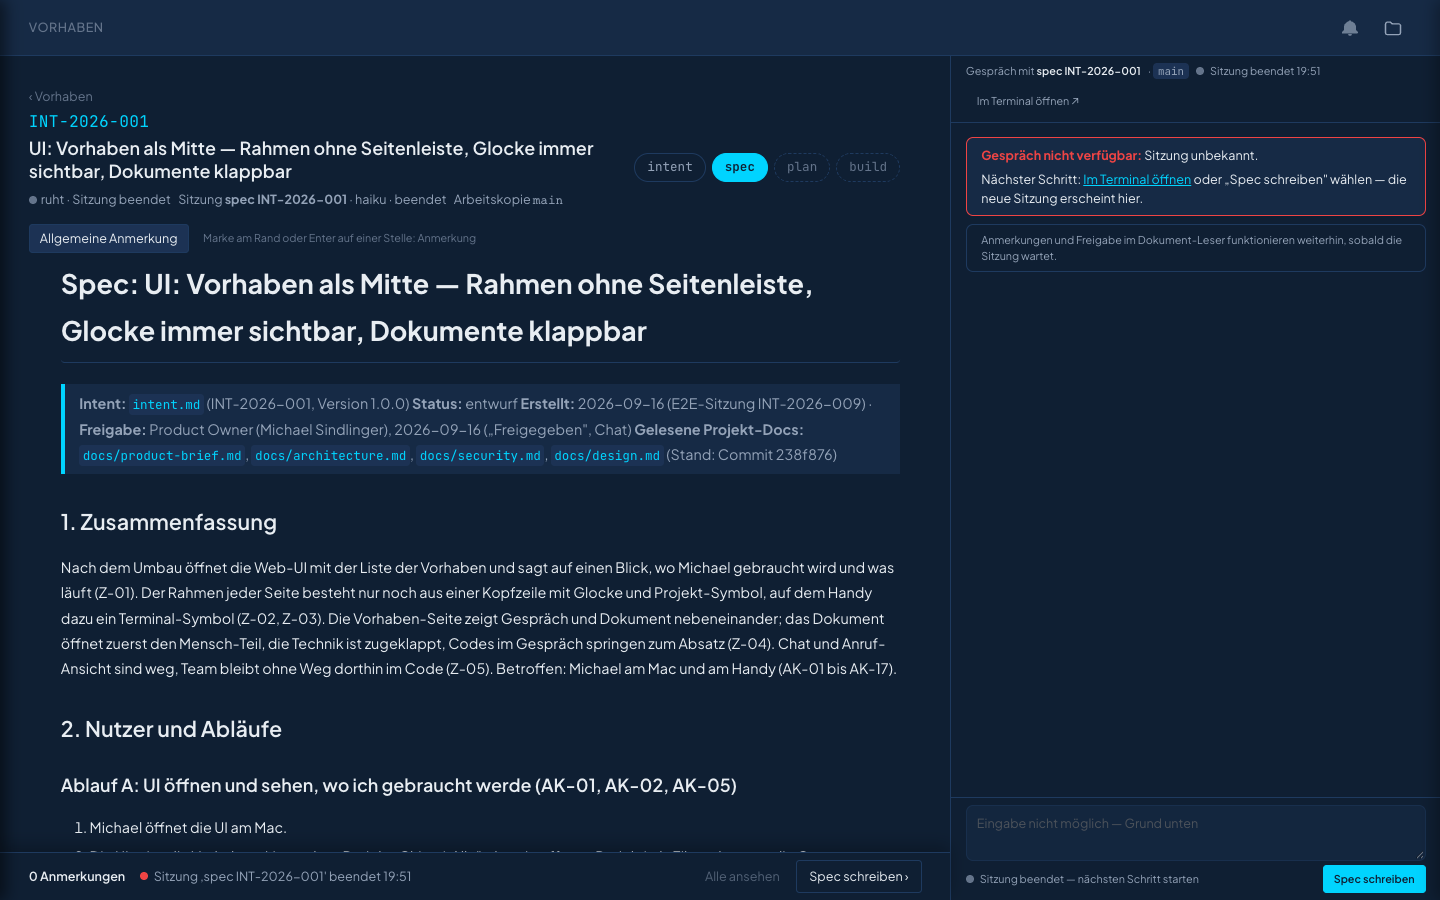
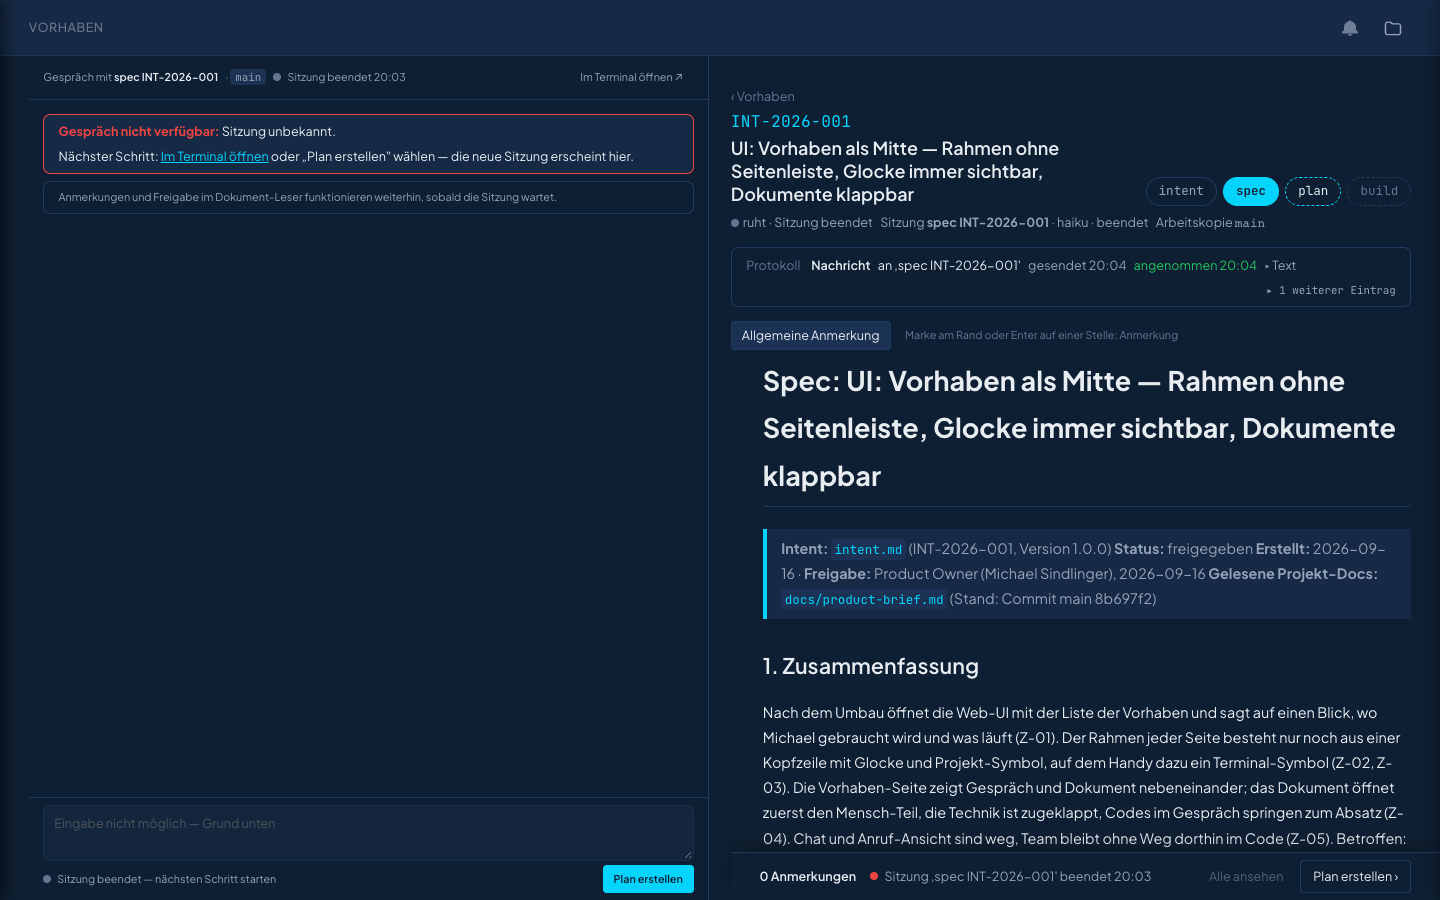
fix(INT-2026-010): Vorhaben-Seite 50/50 — Gespräch links, Dokument rechts (Skizze 3, FA-12)
Das Layout aus INT-2026-007 (Dokument 1fr, Gespräch rechts mit fester Breite
clamp(420px, 34vw, 540px)) war nie an Skizze 3 und FA-12 angepasst.

Grid 1fr 1fr, Gespräch-Spalte zuerst; GESPRAECH_BREITE = halbe Inhaltsbreite
(Viewport minus Terminal-Sidebar, Dateibaum, View-Padding, Spaltenabstand);
Gespräch fixiert am linken View-Rand; Sende-Leiste beginnt an der
Dokumentspalte (--gespraech-versatz aus aos-vorhaben-seite) und endet am
Terminal. Route neu gleich (Gespräch links der Karte). Unter 1024 px Dokument
über Gespräch per Flex-Spalte mit order; dabei zwei Altfehler behoben
(aos-gespraech inline → display block, align-items: start verhinderte das
Strecken), Sende-Leiste dort wieder volle Breite.

Nachweis: Geometrie bei 1440, 1440 + Terminal, 900 px (e2e-protokoll.txt,
ist-04-vorhaben-mac.png neu, -terminal-mac.png, -900.png); Tests view-split
und neue-absicht angepasst; plan §14.

diff --git a/ui/frontend/src/styles/theme.css b/ui/frontend/src/styles/theme.css
@@ -5801,26 +5801,36 @@ aos-model-selector .model-option.selected .model-name {
   /* R-10: the split needs the full width, not the 1180 px reader column */
   max-width: none;
 }
+/* INT-2026-010 (FA-12, Skizze 3): Gespräch links, Dokument rechts, 50/50.
+   `--gespraech-width` = half of the view's content width (viewport minus
+   terminal sidebar, file tree and the view padding, minus the gap); set by
+   aos-vorhaben-view as GESPRAECH_BREITE. */
 .vorhaben-split {
   display: grid;
-  grid-template-columns: minmax(0, 1fr) var(--gespraech-width, 500px);
+  grid-template-columns: minmax(0, 1fr) minmax(0, 1fr);
   gap: var(--spacing-lg);
   align-items: start;
 }
-/* The column only reserves the width; the Gespräch itself is fixed to the
-   viewport (main-content has overflow-x:hidden → sticky never engages),
-   right of the terminal sidebar, above the send bar's row. */
+/* The first column only reserves the width; the Gespräch itself is fixed to
+   the viewport (main-content has overflow-x:hidden → sticky never engages),
+   flush with the view's left padding, above the send bar's row. */
 .vorhaben-split-gespraech {
+  grid-column: 1;
+  min-width: 0;
+}
+.vorhaben-split > aos-vorhaben-seite,
+.vorhaben-split > .neue-absicht {
+  grid-column: 2;
   min-width: 0;
 }
 .vorhaben-split aos-gespraech {
   position: fixed;
   top: var(--header-height, 56px);
   bottom: 0;
-  right: var(--terminal-open-width, 0px);
+  left: calc(var(--file-tree-open-width, 0px) + var(--spacing-xl));
   width: var(--gespraech-width, 500px);
   z-index: 40;
-  transition: right 0.3s ease;
+  transition: left 0.3s ease, width 0.3s ease;
 }
 .gespraech {
   height: 100%;
@@ -5828,7 +5838,7 @@ aos-model-selector .model-option.selected .model-name {
   flex-direction: column;
   min-height: 0;
   background: var(--color-bg-primary);
-  border-left: 1px solid var(--color-border);
+  border-right: 1px solid var(--color-border);
   font-family: var(--font-family);
   font-size: var(--font-size-sm);
   color: var(--color-text-primary);
@@ -6669,19 +6679,36 @@ aos-projekt-seite .abschnitt-git aos-git-status-bar {
   margin-bottom: var(--spacing-lg);
 }
 
-/* Vorhaben page below 1024 px: document above the Gespräch (FA-20, design.md §5) */
+/* Vorhaben page below 1024 px: document above the Gespräch (FA-20, design.md §5).
+   The Gespräch comes first in the DOM (left column on the Mac) → `order` puts it below. */
 @media (max-width: 1023px) {
   aos-app .vorhaben-split {
-    display: block;
+    display: flex;
+    flex-direction: column;
+    align-items: stretch;
   }
 
   aos-app .vorhaben-split-gespraech {
+    order: 2;
     margin-top: var(--spacing-lg);
+  }
+
+  aos-app .vorhaben-split > aos-vorhaben-seite,
+  aos-app .vorhaben-split > .neue-absicht {
+    width: 100%;
+    max-width: 100%;
+    min-width: 0;
   }
 
   aos-app .vorhaben-split aos-gespraech {
     position: static;
+    display: block;
     width: auto;
     height: 70vh;
+  }
+
+  aos-app .vorhaben-split .gespraech {
+    border-right: none;
+    border-top: 1px solid var(--color-border);
   }
 }

diff --git a/ui/tests/unit/aos-vorhaben-view-split.test.ts b/ui/tests/unit/aos-vorhaben-view-split.test.ts
@@ -121,7 +121,7 @@ describe('aos-vorhaben-view — split with Gespräch (FA-01, NZ-01)', () => {
     route = { view: 'vorhaben', segments: ['p', 'INT-2026-003'] };
   });
 
-  it('Mac + assigned session: page left, Gespräch right with the same row; the page gets the Gespräch width for its send bar', async () => {
+  it('Mac + assigned session: Gespräch left, page right (FA-12, Skizze 3) with the same row; the page gets the Gespräch width (half the content width) for its send bar', async () => {
     const el = await view();
     stateListener!(state([row()]));
     await settle(el);
@@ -134,8 +134,13 @@ describe('aos-vorhaben-view — split with Gespräch (FA-01, NZ-01)', () => {
     expect(seite).not.toBeNull();
     expect(gespraech).not.toBeNull();
     expect(gespraech.row.intentId).toBe('INT-2026-003');
-    expect(seite.gespraechBreite).toContain('clamp(');
-    expect(seite.style.getPropertyValue('--gespraech-width')).toContain('clamp(');
+    // INT-2026-010: the Gespräch column comes first in the DOM (left on the Mac; CSS order puts it below the document under 1024 px)
+    expect([...split.children].map((c) => c.tagName.toLowerCase())).toEqual(['div', 'aos-vorhaben-seite']);
+    expect(split.children[0].classList.contains('vorhaben-split-gespraech')).toBe(true);
+    // 50/50: half of the content width (viewport minus terminal, file tree, view padding and gap), not a fixed clamp
+    expect(seite.gespraechBreite).toMatch(/^calc\(\(100vw - var\(--terminal-open-width, 0px\) - var\(--file-tree-open-width, 0px\) - .*\) \/ 2\)$/);
+    expect(seite.style.getPropertyValue('--gespraech-width')).toBe(seite.gespraechBreite);
+    expect(seite.style.getPropertyValue('--gespraech-versatz')).toContain('var(--spacing-xl)');
     el.remove();
   });
 
@@ -146,6 +151,7 @@ describe('aos-vorhaben-view — split with Gespräch (FA-01, NZ-01)', () => {
     expect(el.querySelector('.vorhaben-view')!.classList.contains('split')).toBe(false);
     expect(el.querySelector('aos-gespraech')).toBeNull();
     expect(el.querySelector('aos-vorhaben-seite')!.gespraechBreite).toBe('');
+    expect(el.querySelector('aos-vorhaben-seite')!.style.getPropertyValue('--gespraech-versatz')).toBe('0px');
     el.remove();
     mobile = true;
     const m = await view();
@@ -287,7 +293,9 @@ describe('aos-vorhaben-view — started step stays on the page (FA-22, AN-S03)',
     await card.updateComplete;
     (card.shadowRoot!.querySelector('button.terminal') as HTMLButtonElement).click();
     expect(seen).toEqual(['cloud-1-7']);
-    expect(card.shadowRoot!.textContent).toContain('Gespräch rechts');
+    expect(card.shadowRoot!.textContent).toContain('Gespräch links');
+    // the Gespräch column precedes the card on the route neu as well
+    expect([...el.querySelector('.vorhaben-split')!.children].map((c) => c.className)).toEqual(['vorhaben-split-gespraech', 'neue-absicht']);
     el.remove();
     mobile = true;
     const m = await view('neu');

diff --git a/ui/frontend/src/components/vorhaben/aos-sende-leiste.ts b/ui/frontend/src/components/vorhaben/aos-sende-leiste.ts
@@ -56,15 +56,16 @@ export class AosSendeLeiste extends LitElement {
 
   static override styles = css`
     /* Mac: fixed above the page (main-content has overflow-x:hidden, so sticky
-       would never engage); full width since the app sidebar is gone
-       (INT-2026-010), right of the terminal. */
+       would never engage), left of the terminal. With a Gespräch (INT-2026-010,
+       FA-12: Gespräch left, document right) the bar starts where the document
+       column starts: --gespraech-versatz is the column's left edge, set by
+       aos-vorhaben-seite; without a Gespräch both are 0 → full width. */
     :host {
       display: block;
       position: fixed;
       bottom: 0;
-      left: 0;
-      /* INT-2026-007: ends at the Gespräch column (FA-01, plan §4 #16) */
-      right: calc(var(--terminal-open-width, 0px) + var(--gespraech-width, 0px));
+      left: calc(var(--gespraech-versatz, 0px) + var(--gespraech-width, 0px));
+      right: var(--terminal-open-width, 0px);
       z-index: 50;
       background: var(--color-bg-primary);
       border-top: 1px solid var(--color-border);
@@ -72,7 +73,13 @@ export class AosSendeLeiste extends LitElement {
       font-family: var(--font-family);
       font-size: var(--font-size-sm);
       box-shadow: 0 -6px 16px rgba(0, 0, 0, 0.25);
-      transition: right 0.3s ease;
+      transition: right 0.3s ease, left 0.3s ease;
+    }
+    /* Below 1024 px the Gespräch sits under the document (design.md §5) → the bar spans the full width again. */
+    @media (max-width: 1023px) {
+      :host {
+        left: 0;
+      }
     }
     /* Phone: sticky at the bottom of the page. */
     :host([mobile]) {

diff --git a/ui/frontend/src/components/vorhaben/aos-vorhaben-seite.ts b/ui/frontend/src/components/vorhaben/aos-vorhaben-seite.ts
@@ -113,9 +113,10 @@ export class AosVorhabenSeite extends LitElement {
   /** `lastModelKey(...)` → selection (from the state). */
   @property({ attribute: false }) lastModel: Record<string, ModelSelection> = {};
   /**
-   * CSS width of the Gespräch column next to the page (INT-2026-007, Mac
-   * only); sets `--gespraech-width`, which the fixed send bar subtracts from
-   * its right edge. Empty = no Gespräch.
+   * CSS width of the Gespräch column left of the page (INT-2026-007, Mac
+   * only; INT-2026-010: left, 50/50); sets `--gespraech-width` and
+   * `--gespraech-versatz`, from which the fixed send bar takes its left edge.
+   * Empty = no Gespräch.
    */
   @property({ type: String }) gespraechBreite = '';
 
@@ -390,7 +391,11 @@ export class AosVorhabenSeite extends LitElement {
   `;
 
   protected override willUpdate(changed: PropertyValues<this>): void {
-    if (changed.has('gespraechBreite')) this.style.setProperty('--gespraech-width', this.gespraechBreite || '0px');
+    if (changed.has('gespraechBreite')) {
+      this.style.setProperty('--gespraech-width', this.gespraechBreite || '0px');
+      // Left edge of the document column (Gespräch left, FA-12): file tree + view padding + grid gap; 0 without a Gespräch.
+      this.style.setProperty('--gespraech-versatz', this.gespraechBreite ? 'calc(var(--file-tree-open-width, 0px) + var(--spacing-xl) + var(--spacing-lg))' : '0px');
+    }
     if (changed.has('mobile')) this.toggleAttribute('mobile', this.mobile);
     if (changed.has('doc') || (changed.has('row') && (changed.get('row') as VorhabenRow | undefined)?.intentId !== this.row?.intentId)) {
       this.readStand = 0;

diff --git a/ui/frontend/src/components/vorhaben/aos-neue-absicht.ts b/ui/frontend/src/components/vorhaben/aos-neue-absicht.ts
@@ -6,7 +6,7 @@
  * `firstInput`; the backend hands it to the session at its first Stop, so it
  * appears as Michael's first Beitrag in the Gespräch. While a `/intent`
  * session of the project is still pending (no folder yet), the page shows
- * that session instead of the form: on the Mac the Gespräch stands next to
+ * that session instead of the form: on the Mac the Gespräch stands left of
  * this card (the view renders it), on the phone the card offers the terminal
  * (AK-06). The view follows the session to its Vorhaben page once a folder
  * claims it (`followStartedIntent`).
@@ -229,7 +229,7 @@ export class AosNeueAbsicht extends LitElement {
   private renderPending(p: VorhabenPendingIntent) {
     return html`<div class="karte gestartet">
       <span><span class="dot"></span>Absicht-Sitzung „${p.session.name}" läuft — Vorhaben entsteht …</span>
-      <span class="status">${this.mobile ? 'im Terminal antworten' : 'Gespräch rechts'} — die Vorhaben-Seite öffnet sich, sobald der Ordner da ist</span>
+      <span class="status">${this.mobile ? 'im Terminal antworten' : 'Gespräch links'} — die Vorhaben-Seite öffnet sich, sobald der Ordner da ist</span>
       ${p.session.firstInputPending ? html`<span class="uebergabe">Dein Text wird nach der ersten Frage übergeben.</span>` : nothing}
       <button type="button" class="terminal" @click=${this.toTerminal}>Im Terminal öffnen ↗</button>
     </div>`;

diff --git a/ui/frontend/src/views/aos-vorhaben-view.ts b/ui/frontend/src/views/aos-vorhaben-view.ts
@@ -320,11 +320,12 @@ export class AosVorhabenView extends LitElement {
         @vorhaben-session-started=${this.onSessionStarted}
       ></aos-vorhaben-seite>`;
       if (!split) return seite;
+      // Gespräch left, document right (FA-12, Skizze 3); below 1024 px the CSS puts the Gespräch under the document.
       return html`<div class="vorhaben-split" style="--gespraech-width: ${GESPRAECH_BREITE}">
-        ${seite}
         <div class="vorhaben-split-gespraech">
           <aos-gespraech .row=${row} .protocol=${protocol.filter((e) => e.projectId === row.projectId && e.intentId === row.intentId)} @gespraech-next-step=${this.onGespraechNextStep}></aos-gespraech>
         </div>
+        ${seite}
       </div>`;
     }
     if (missing) {
@@ -392,10 +393,10 @@ export class AosVorhabenView extends LitElement {
     const sessionId = pending?.sessionId ?? claimedRow?.session?.id;
     const protocol = (this.vorhabenState?.protocol ?? []).filter((e) => e.sessionId === sessionId);
     return html`<div class="vorhaben-split" style="--gespraech-width: ${GESPRAECH_BREITE}">
-      ${block}
       <div class="vorhaben-split-gespraech">
         <aos-gespraech .row=${claimedRow} .pending=${pending} .protocol=${protocol}></aos-gespraech>
       </div>
+      ${block}
     </div>`;
   }
 }

diff --git a/ui/tests/unit/aos-neue-absicht.test.ts b/ui/tests/unit/aos-neue-absicht.test.ts
@@ -121,7 +121,7 @@ describe('aos-neue-absicht (FA-10, FA-11)', () => {
     el.remove();
   });
 
-  it('pending session: the card replaces the form — Mac „Gespräch rechts", phone „im Terminal antworten" with a terminal button; the pending first input is named until delivered (AK-06, plan §3)', async () => {
+  it('pending session: the card replaces the form — Mac „Gespräch links", phone „im Terminal antworten" with a terminal button; the pending first input is named until delivered (AK-06, plan §3)', async () => {
     const seen: string[] = [];
     const onOpen = (e: Event): void => {
       seen.push((e as CustomEvent<{ sessionId: string }>).detail.sessionId);
@@ -131,7 +131,7 @@ describe('aos-neue-absicht (FA-10, FA-11)', () => {
     const sr = el.shadowRoot!;
     expect(sr.querySelector('textarea')).toBeNull();
     expect(sr.textContent).toContain('Absicht-Sitzung „intent" läuft — Vorhaben entsteht');
-    expect(sr.textContent).toContain('Gespräch rechts');
+    expect(sr.textContent).toContain('Gespräch links');
     expect(sr.textContent).toContain('Dein Text wird nach der ersten Frage übergeben.');
     (sr.querySelector('button.terminal') as HTMLButtonElement).click();
     expect(seen).toEqual(['cloud-1-7']);

diff --git a/ui/frontend/src/components/vorhaben/aos-gespraech.ts b/ui/frontend/src/components/vorhaben/aos-gespraech.ts
@@ -23,7 +23,14 @@ import './aos-gespraech-beitrag.js';
 import './aos-gespraech-eingabe.js';
 
 /** Width of the Gespräch column on the Mac (plan §3 A.9: 420–540 px). */
-export const GESPRAECH_BREITE = 'clamp(420px, 34vw, 540px)';
+/**
+ * Width of the Gespräch column on the Mac (INT-2026-010, FA-12, Skizze 3):
+ * half of the view's content width — viewport minus terminal sidebar and file
+ * tree (both set on <html>), minus the view padding on both sides, minus the
+ * grid gap. The view sets it as `--gespraech-width`; the page's fixed send
+ * bar and the fixed Gespräch read it.
+ */
+export const GESPRAECH_BREITE = 'calc((100vw - var(--terminal-open-width, 0px) - var(--file-tree-open-width, 0px) - 2 * var(--spacing-xl) - var(--spacing-lg)) / 2)';
 
 /**
  * What the Gespräch needs from its owner — a Vorhaben row or (INT-2026-008)

diff --git a/intent/INT-2026-010-ui-vorhaben-als-mitte/plan.md b/intent/INT-2026-010-ui-vorhaben-als-mitte/plan.md
@@ -545,3 +545,4 @@ Meilensteine = die drei PRs (§6). Größter Unsicherheitsfaktor: E2E-Läufe mit
 | 2026-09-16 (S2) | E2E „Neue Absicht": Haiku legte `intent.md` ohne YAML-Kopf an (Phase `unbekannt`); der Kopf wurde im Scratch von Hand ergänzt, danach die Vorhaben-Seite des neuen Ordners geprüft (Chips, „Freigeben" frei, kein nächster Schritt in absicht) | Scratch-`CLAUDE.md` („kurz halten") ließ Haiku die Vorlage überspringen — Agentenverhalten im Testprojekt, kein UI-Befund; der Ordner-Claim und die Zustellung der ersten Eingabe liefen unabhängig davon | §8 E2E |
 | 2026-09-16 (S2) | Aktionsleiste (nächster Schritt, „Freigeben", Handy: Terminal) steht am Ende des Dokuments (Scrollen nötig), nicht fest am unteren Rand | Der feste untere Rand gehört der Sende-Leiste für Anmerkungen (Stufe 1); zwei feste Leisten übereinander würden den Leser verdecken. Skizze 3 zeigt den Knopf „unter dem Dokument" | §3 Vorhaben-Seite, §8 UI |
 | 2026-09-16 (S2) | E2E-Zeitfenster: Haikus erster Turn bei `/specwright:spec` dauerte 109 s bzw. 178 s bis zum ersten Stop (Spec in einem Zug geschrieben, Status selbst gesetzt); die Zustellung der Freigabe erfolgte jeweils beim ersten Stop, in Lauf 2 außerhalb des 120-s-Fensters des Skripts (per WS-Snapshot bestätigt) | Das Skript misst ab Start; die Wartezeit hängt vom Agenten ab, nicht von der UI | §8 E2E |
+| 2026-09-16 (Fix nach S2) | Split der Vorhaben-Seite: Gespräch **links**, Dokument **rechts**, je halbe Inhaltsbreite (`grid 1fr 1fr`, `GESPRAECH_BREITE` = `calc((100vw − Terminal − Dateibaum − 2·Padding − Gap) / 2)`, Gespräch fixiert am linken View-Rand, Sende-Leiste ab der Dokumentspalte); unter 1024 px Dokument über Gespräch per Flex-Spalte mit `order`. Route `neu` gleich (Gespräch links der Karte). Eigener PR `fix/INT-2026-010-split` | Befund von Michael nach dem Merge von PR #58: Layout aus INT-2026-007 (Dokument `1fr`, Gespräch rechts fest `clamp(420px, 34vw, 540px)`) war nie an Skizze 3 / FA-12 („links das Gespräch, rechts das Dokument") angepasst; Plan §3 hatte Seite und Breite nicht genannt, das S1-Protokoll die falsche Zuordnung als Mock-Treffer gewertet. Dabei zwei Altfehler unter 1024 px behoben (`aos-gespraech` inline, `align-items: start`) | §3 Vorhaben-Seite, §8 UI, §4 #20/#61/#63 |
